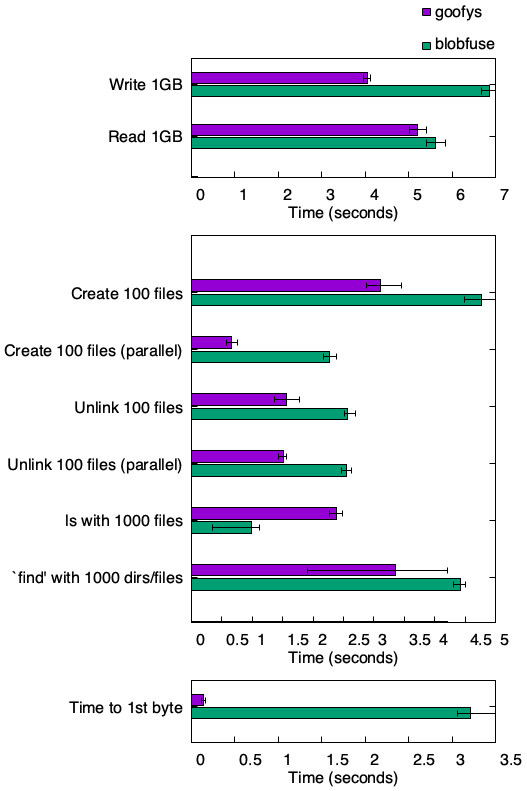
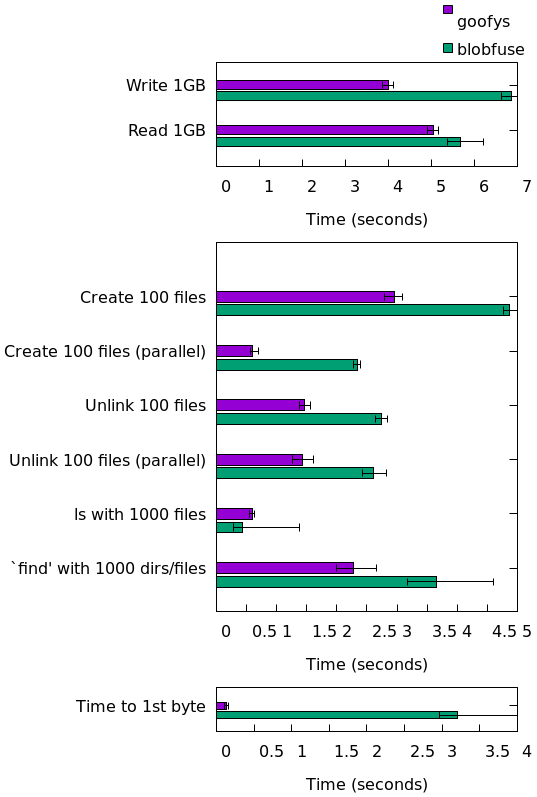
re-run benchmark using /mnt
/mnt is supposed to be the ephemeral drive

diff --git a/bench/azure/README.md b/bench/azure/README.md
@@ -1,6 +1,6 @@
 ## Benchmark with Azure Blob Storage
 
-The test was run on `Standard DS4 v2` in `West US` connected to a bucket also in `West US`. Units are seconds.
+The test was run on `Standard DS4 v2` in `West US` connected to a bucket also in `West US`. Units are seconds. For [blobfuse](https://github.com/Azure/azure-storage-fuse/), cache directory is cleared to simulate cold read.
 
 ![Azure Benchmark result](/bench/azure/bench.png?raw=true "Azure Benchmark")
 
@@ -8,6 +8,6 @@ To run the benchmark, do:
 ```ShellSession
 $ export AZURE_STORAGE_ACCOUNT=myaccount
 $ export AZURE_STORAGE_KEY=STORAGE-ACCESS-KEY
-$ sudo docker run -e BUCKET=$TESTBUCKET -e AZURE_STORAGE_ACCOUNT=$AZURE_STORAGE_ACCOUNT -e AZURE_STORAGE_KEY=$AZURE_STORAGE_KEY --rm --privileged --net=host -v /tmp/cache:/tmp/cache kahing/goofys-bench:azure-latest
+$ sudo docker run -e BUCKET=$TESTBUCKET -e AZURE_STORAGE_ACCOUNT=$AZURE_STORAGE_ACCOUNT -e AZURE_STORAGE_KEY=$AZURE_STORAGE_KEY --rm --privileged --net=host -v /mnt/cache:/tmp/cache kahing/goofys-bench:azure-latest
 # result will be written to $TESTBUCKET
 ```
